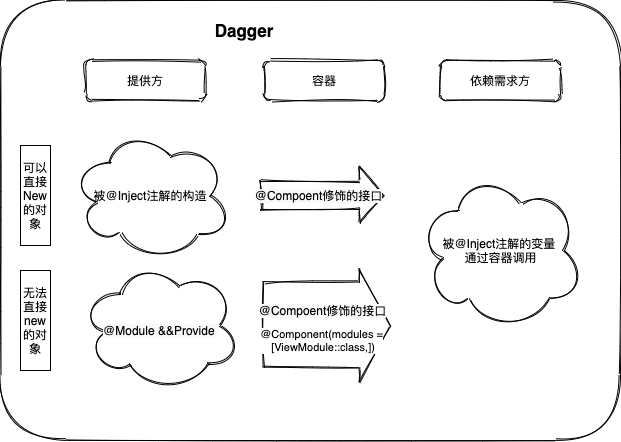
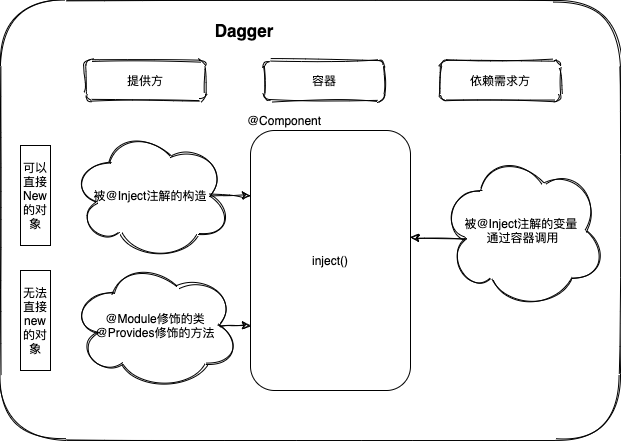
[Dagger2] CSDN发布

diff --git a/Android/JetPack/DI/Dagger2.md b/Android/JetPack/DI/Dagger2.md
@@ -1,11 +1,14 @@
 ### 什么是Dagger2
-  当我们有一个Person类 需要去实例化，通常手段都是`Computer computer = new Computer()`, 如果 Computer 中需要依赖一个Phone对象，一般情况下都是通过构造传入`new Computer(new CPU)`，或者 set 方法 传入，这其实就是依赖注入最常见的两种方式，Dagger2 就是此两种方式上，通过`注解+JavaPoet`等手段，在编译期间，动态的生成 依赖方 所需要的对象。
+  在我看来Dagger2是一个又高级又低级的的框架，在Java开发中，对象无处不在，无论是从初级开发，还是高级架构师，都离不开`Objec object =new Objec();`,每个java程序员每天都需要new 很多对象，为什么简简单单的new对象，却被Dagger2搞得如此复杂呢？
+
+##### 什么是依赖注入
+  在了解Dagge2之前，我们先简单了解一下，什么是依赖注入。当我们有一个Person类 需要去实例化，通常手段都是`Computer computer = new Computer()`, 如果 Computer 中需要依赖一个CPU的实例，一般情况下都是通过构造传入`new Computer(new CPU)`，或者 set 方法 传入，这其实就是依赖注入最常见的两种方式。Dagger2 就是通过`注解+JavaPoet`等手段，在编译期间，动态生成（通过module)的方式提供依赖`提供方`，并将通过容器 将`需求方`进行赋值绑定。
 ![](/image/Dagger2.png)
+
 
 ### Dagger2-基础
 
 #### 基础介绍
-
 围绕着上面的问题，我们尝试使用Dagger来试一下效果，并了解下其中原理
 
 ######  @Inject
@@ -84,7 +87,7 @@ class CPU {
 
   - 成员变量:
 
-  在开发的过程中，并不是所有类都有构造，例如Android中，常见的Activity，全部是通过系统源码创建，那我们如何像Activity中注入所需要的对象呢，Dagger 为我们提供了一种方法，将@Inject 注解在成员变量上。
+  在开发的过程中，并不是所有类都有构造，例如Android中，常见的Activity，全部是通过系统源码创建，那我们如何像Activity中注入所需要的对象呢，Dagger 为我们提供了一种方法，将@Inject 注解在成员变量上，通过容器类，将依赖方与需求方进行绑定。
 
   我们依旧将CPU注入给Computer
 
@@ -101,11 +104,6 @@ class CPU {
   class Computer {
       @Inject
       lateinit var cpu: CPU
-
-      @Inject
-      lateinit var disk: Disk
-
-      var phoneName = "Mac"
 
       init {
           DaggerComputerComponent.create().inject(this)
@@ -636,5 +634,13 @@ public final class DaggerComputerComponent implements ComputerComponent {
   - 2、问题在于，injectMainBoard()时，构造参数由何而来，是通过appComponent.provideElectric()获取，这样就和上面的关联起来了。
   - 3、如果在appComponent中 不提供实例，例如OtherPart(),那么injectOtherPart()则会帮忙new出一个实例，防止崩溃。
 
+
+### 总结
+我们在开头的时候说了Dagger又高级，又低级，在真的搞明白了Dagger后，你会发现Dagger会让项目中实例的依赖更加清晰，减少很多重复工作，但一个简简单单的new()就可以解决的问题，却被搞得如此复杂，还是仁者见仁。
+
+有些朋友接手Dagger或者Hilt项目后，甚至找不到对象由何而来，希望这篇文章可以帮助到你。
+
+
 ### 参考资料
-- [@Component和@SubComponen](https://blog.csdn.net/soslinken/article/details/70231089)
+- [官网](https://dagger.dev)
+- [androidGoogle官网](https://developer.android.google.cn/training/dependency-injection)
